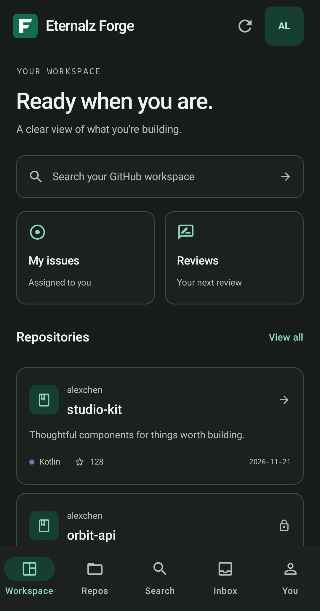
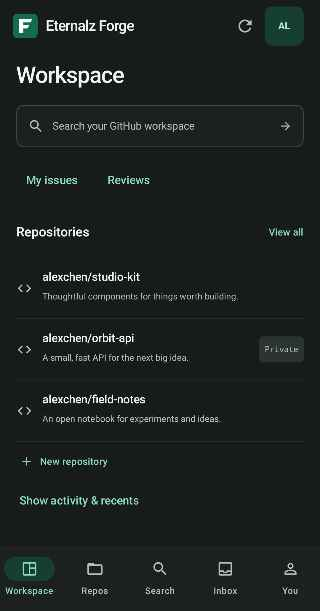
Publish tested clean-UI APK and record inspected screenshots and deletion safeguards

diff --git a/docs/implementation-status.md b/docs/implementation-status.md
@@ -122,3 +122,18 @@ Publication intentionally skips rather than distribute another incompatible key.
 Old disposable-debug-key installs cannot be upgraded without the old private key.
 See [signing/update status](android-updates.md). Earlier download links in this
 document are historical build evidence, not the new recovery installer.
+
+
+## Latest revision — 0.3.3 decluttering and repository deletion
+
+Commit `ab429d19cb1232453aa02773135822fc0001115b`,
+[CI 44987159847](https://github.com/WaquarShaikh5555/eternalz-forge/actions/runs/44987159847):
+lint, JVM tests/APK assembly and all **ten Android emulator tests passed**. Added
+copyable full owner/repository confirmation, view-model confirmation enforcement,
+repository-target pinning, admin preflight, actionable permission errors and an
+explicit optional `delete_repo` OAuth scope. No live repository deletion was run.
+The cleaner sign-in and workspace light/dark captures were retrieved and visually
+inspected; secondary workspace content/navigation is now progressively disclosed.
+The GitHub integration still returns HTTP 403 on repository Actions-secrets access;
+permanent signing remains blocked. A separate disposable-key test prerelease is
+being published, not a falsely advertised compatible stable update.

diff --git a/docs/design-system.md b/docs/design-system.md
@@ -95,5 +95,9 @@ remain summarized). Repository navigation prioritizes Code, Issues and Pull
 requests; less frequent destinations are in More. Repository deletion confirmations
 show the full owner/name and a copy action without auto-confirming destruction.
 
-New screenshots and CI results for this revision are pending; prior captures above
-are historical rather than proof of this revision.
+[CI run 44987159847](https://github.com/WaquarShaikh5555/eternalz-forge/actions/runs/44987159847)
+passed lint, JVM tests, APK assembly and all ten Android emulator tests. The three
+JPEGs in `docs/screenshots/` are now the 0.3.3 fixture captures from that run and
+were visually inspected (sign-in, workspace light, workspace dark). No real private
+account/repository content is shown. Older prose about previous revisions is
+historical; these new images show the simplified default hierarchy.
